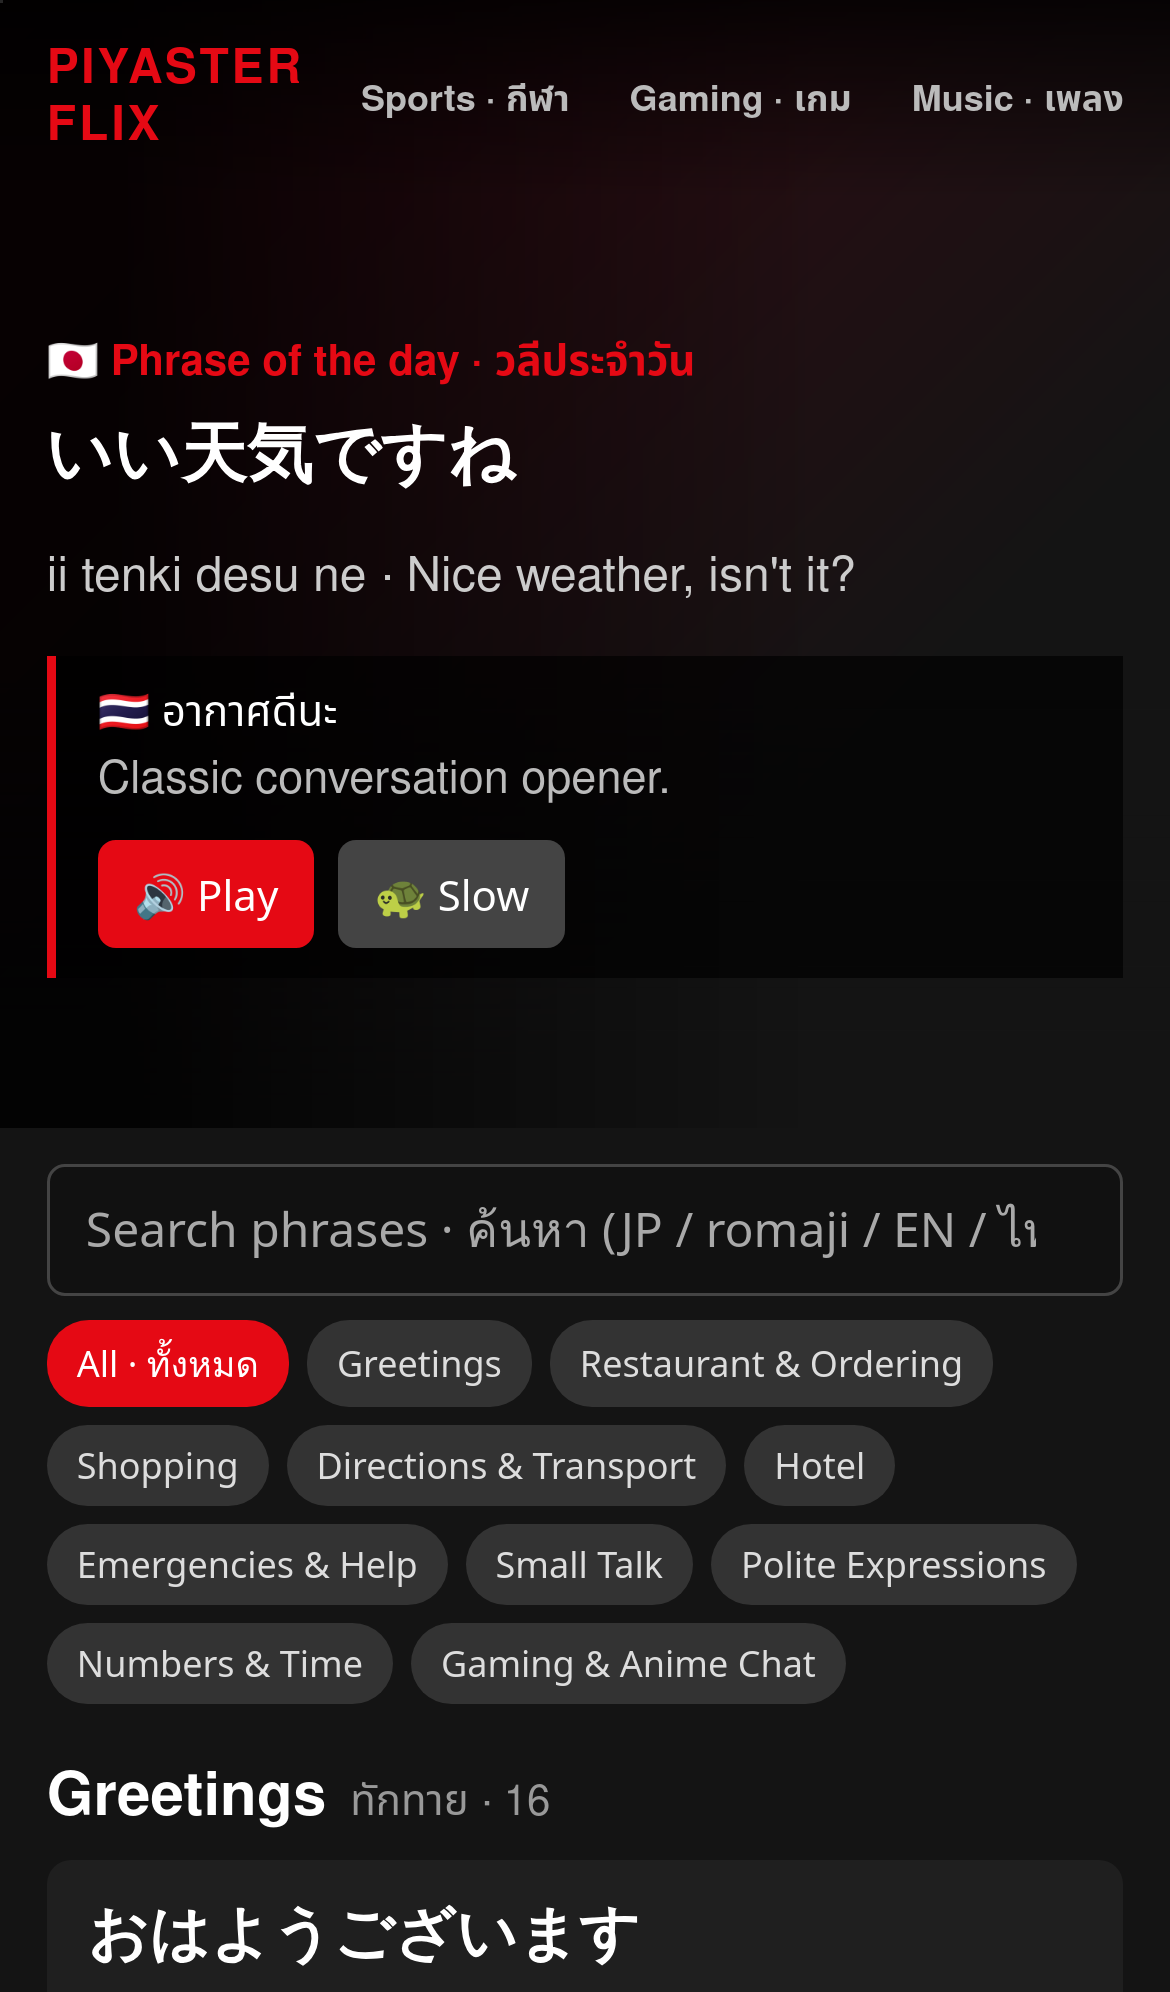
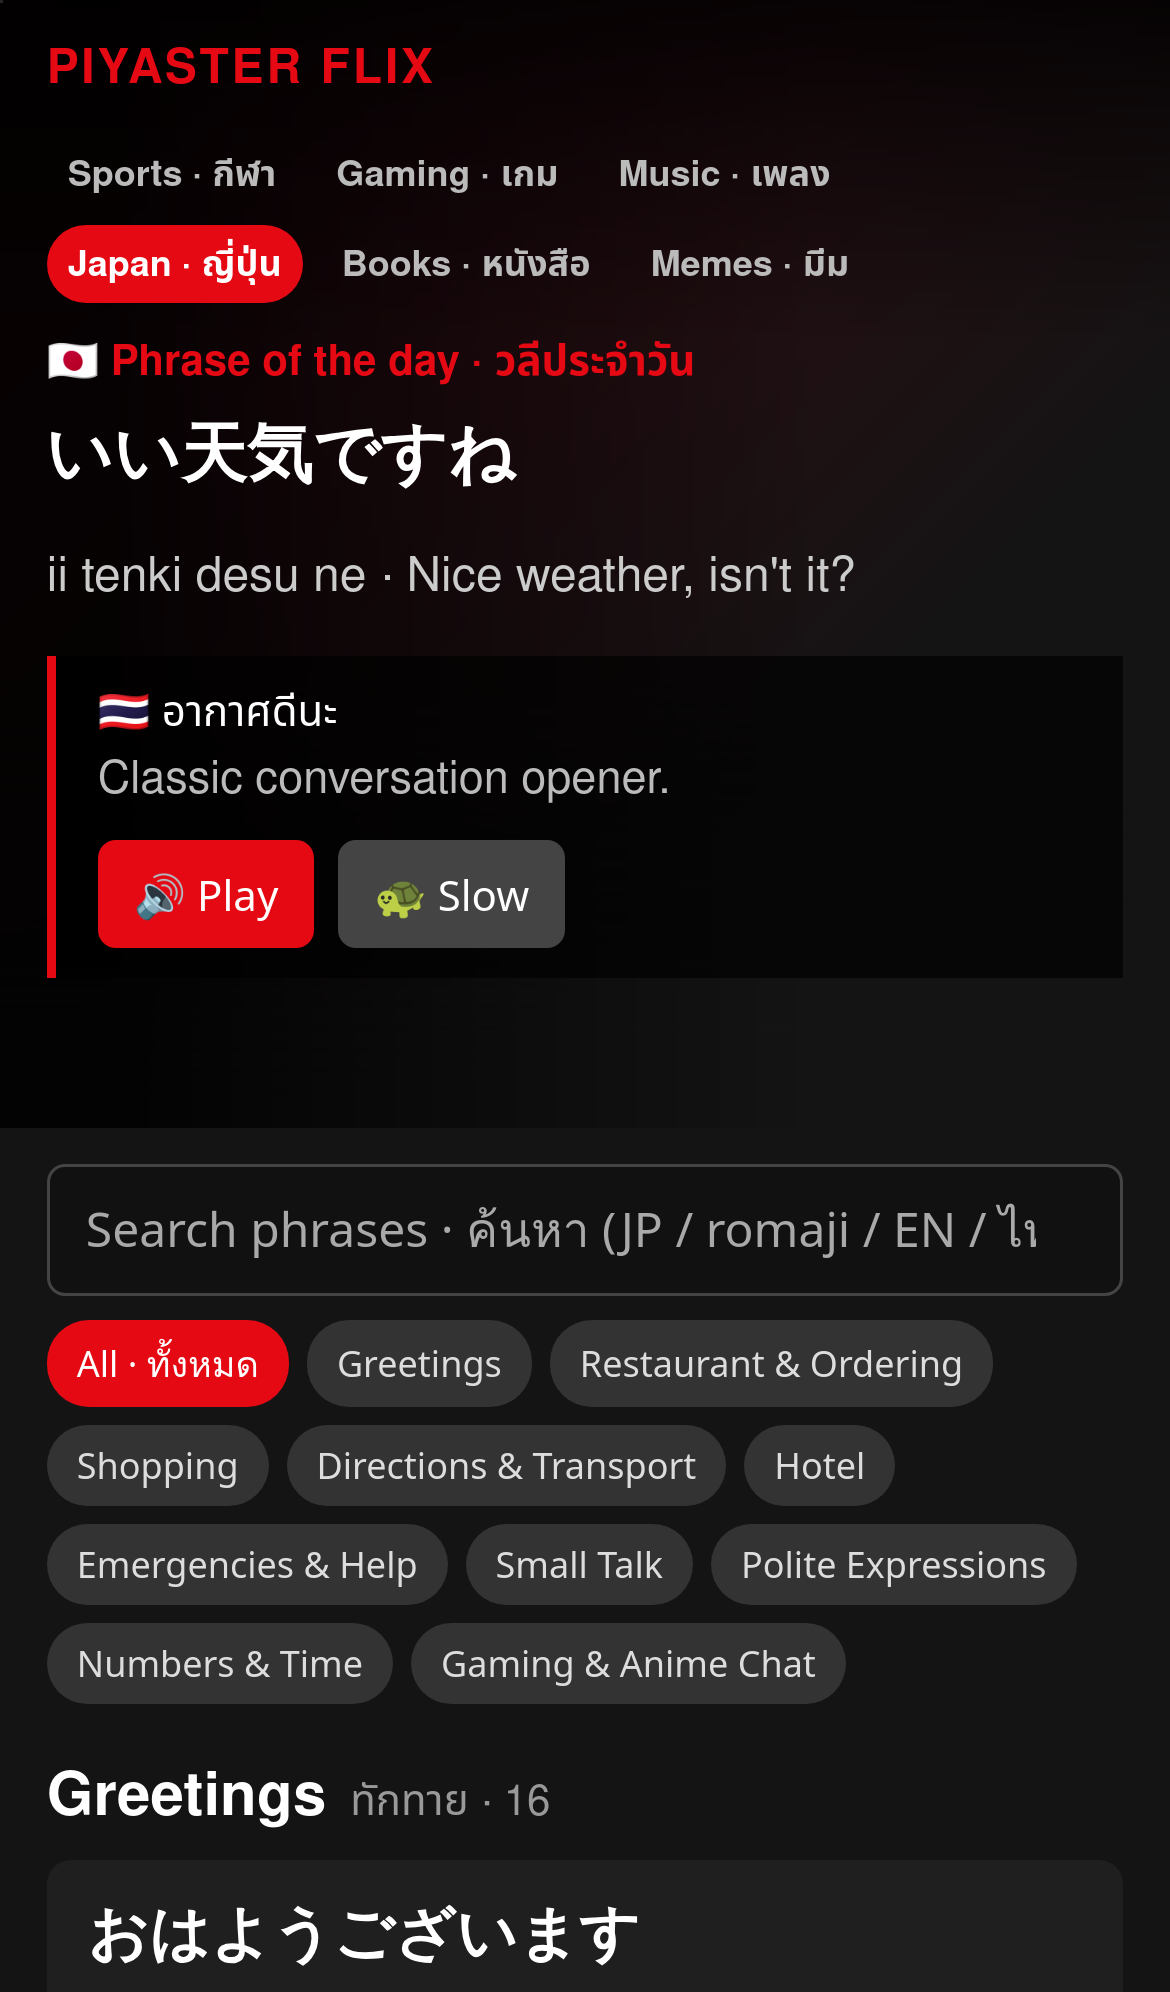
Rename to piyaster-flix

diff --git a/scripts/build.py b/scripts/build.py
@@ -45,7 +45,7 @@ FLOOR={"premier-league":50000,"laliga":10000,"ucl":20000,"nba":10000,"f1":50000,
 FLOOR.update(FLOOR_EXTRA)
 MIN_KEEP=10; MAX_KEEP=20
 NS={"a":"http://www.w3.org/2005/Atom","yt":"http://www.youtube.com/xml/schemas/2015","m":"http://search.yahoo.com/mrss/"}
-UA={"User-Agent":"Mozilla/5.0 sports-highlights"}
+UA={"User-Agent":"Mozilla/5.0 piyaster-flix"}
 def get(url,t=20):
     with urllib.request.urlopen(urllib.request.Request(url,headers=UA),timeout=t) as r: return r.status,r.read()
 def embeddable(vid):

diff --git a/README.md b/README.md
@@ -1,2 +1,6 @@
 # Piyaster Flix
-Netflix-style page: Sports, Gaming, Music, Japan and Books. Videos from official YouTube channels only. data.json refreshes every 3h via GitHub Actions.
+Live: https://piyaster11.github.io/piyaster-flix/ (old URL https://piyaster11.github.io/sports-highlights/ redirects here)
+
+Netflix-style page: Sports, Gaming, Music, Japan (everyday phrases with audio), Books and Memes.
+Videos come from official YouTube channels only. data.json refreshes every 3h via GitHub Actions (`.github/workflows/refresh.yml`).
+weekly.json is updated by the Monday routine. Local working copy: /workspace/piyaster-flix
